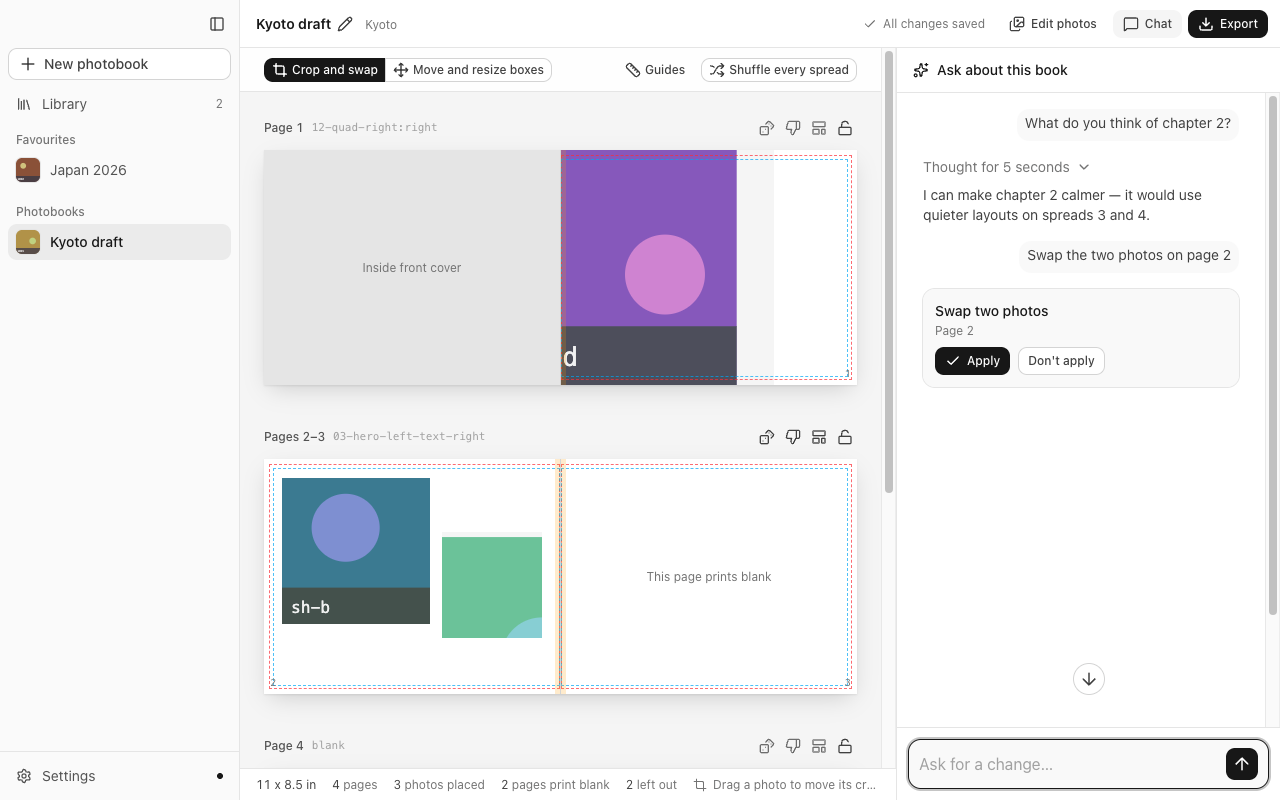
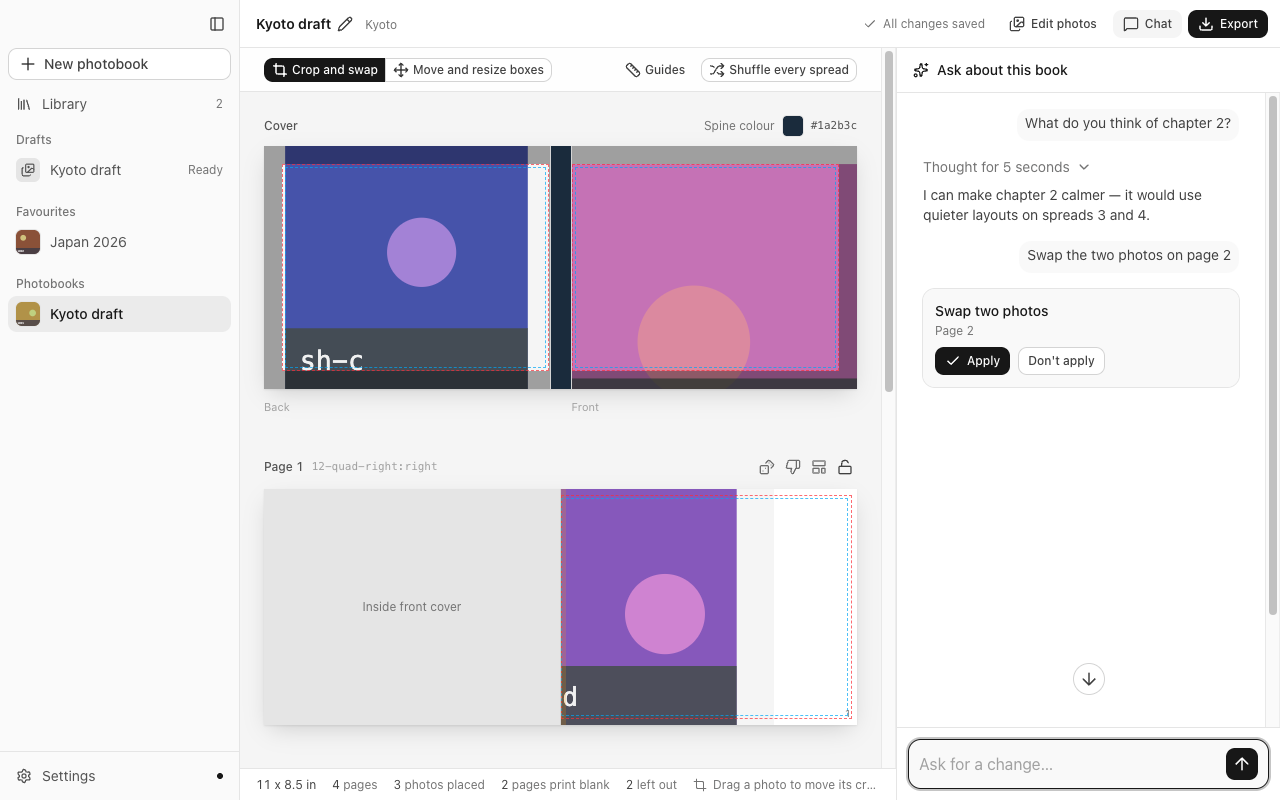
docs(readme): show the cover row in the editor screenshot
The hero shot predated the cover, so it opened on Page 1 and gave no
sign the app lays out a front and back cover. Recaptured at the same
1280x800 in light mode with the cover row in view, a back cover chosen
and the same chat exchange as before.

diff --git a/README.md b/README.md
@@ -15,7 +15,7 @@
 </p>
 
 <p align="center">
-  <img src="docs/screenshots/editor.png" alt="The book editor with the chat open" width="900" />
+  <img src="docs/screenshots/editor.png" alt="The book editor showing the cover and page 1, with the chat open" width="900" />
 </p>
 
 Pick your photo folders. PhotobookGen ranks every photo with Apple Vision, drops look-alikes
